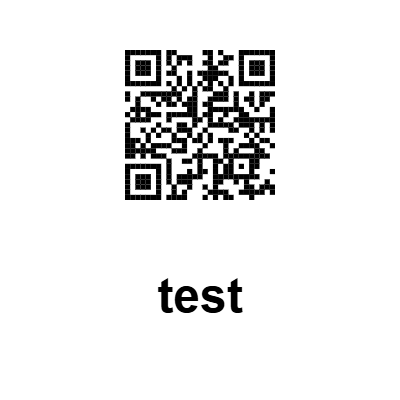
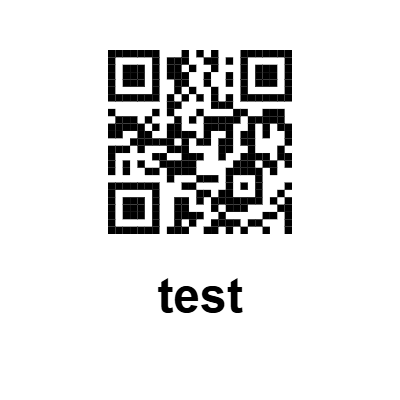
test

Changed region(s): [[0.27, 0.12, 0.75, 0.6]]

diff --git a/createtest.html b/createtest.html
@@ -102,8 +102,22 @@
         
         <div class="controls">
             <div class="control-group">
+                <label for="markerType">Marker Type:</label>
+                <select id="markerType" onchange="updateMarkerType()">
+                    <option value="qr">QR Code + Text</option>
+                    <option value="simple">Simple AR-Friendly Pattern</option>
+                </select>
+            </div>
+            
+            <div class="control-group" id="qrControls">
                 <label for="qrText">QR Code Content:</label>
                 <input type="text" id="qrText" placeholder="Enter URL or text for QR code" value="https://example.com">
+            </div>
+            
+            <div class="control-group" id="qrSizeControl">
+                <label for="qrSize">QR Code Size:</label>
+                <input type="range" id="qrSize" min="100" max="200" value="150">
+                <span id="qrSizeValue">150px</span>
             </div>
             
             <div class="control-group">
@@ -151,58 +165,105 @@
     <script>
         let currentMarkerData = null;
 
+        function updateMarkerType() {
+            const markerType = document.getElementById('markerType').value;
+            const qrControls = document.getElementById('qrControls');
+            const qrSizeControl = document.getElementById('qrSizeControl');
+            
+            if (markerType === 'qr') {
+                qrControls.style.display = 'block';
+                qrSizeControl.style.display = 'block';
+            } else {
+                qrControls.style.display = 'none';
+                qrSizeControl.style.display = 'none';
+            }
+        }
+
         function generateMarker() {
-            const qrText = document.getElementById('qrText').value;
+            const markerType = document.getElementById('markerType').value;
             const markerText = document.getElementById('markerText').value;
             const fontSize = document.getElementById('fontSize').value;
-            const qrSize = document.getElementById('qrSize').value;
             
             // Update font size display
             document.getElementById('fontSizeValue').textContent = fontSize + 'px';
-            document.getElementById('qrSizeValue').textContent = qrSize + 'px';
             
             // Update text display
             const textDisplay = document.getElementById('textDisplay');
             textDisplay.textContent = markerText;
             textDisplay.style.fontSize = fontSize + 'px';
             
-            // Generate QR code
             const qrCodeDiv = document.getElementById('qrCode');
             qrCodeDiv.innerHTML = '';
             
-            // Create QR code using qrcode-generator library
-            const qr = qrcode(0, 'M');
-            qr.addData(qrText);
-            qr.make();
-            
-            // Create canvas and draw QR code
-            const canvas = document.createElement('canvas');
-            const ctx = canvas.getContext('2d');
-            const size = parseInt(qrSize);
-            const moduleCount = qr.getModuleCount();
-            const cellSize = size / moduleCount;
-            
-            canvas.width = size;
-            canvas.height = size;
-            
-            // Fill white background
-            ctx.fillStyle = '#ffffff';
-            ctx.fillRect(0, 0, size, size);
-            
-            // Draw QR modules
-            ctx.fillStyle = '#000000';
-            for (let row = 0; row < moduleCount; row++) {
-                for (let col = 0; col < moduleCount; col++) {
-                    if (qr.isDark(row, col)) {
-                        ctx.fillRect(col * cellSize, row * cellSize, cellSize, cellSize);
+            if (markerType === 'qr') {
+                const qrText = document.getElementById('qrText').value;
+                const qrSize = document.getElementById('qrSize').value;
+                document.getElementById('qrSizeValue').textContent = qrSize + 'px';
+                
+                // Generate QR code
+                const qr = qrcode(0, 'M');
+                qr.addData(qrText);
+                qr.make();
+                
+                // Create canvas and draw QR code
+                const canvas = document.createElement('canvas');
+                const ctx = canvas.getContext('2d');
+                const size = parseInt(qrSize);
+                const moduleCount = qr.getModuleCount();
+                const cellSize = size / moduleCount;
+                
+                canvas.width = size;
+                canvas.height = size;
+                
+                // Fill white background
+                ctx.fillStyle = '#ffffff';
+                ctx.fillRect(0, 0, size, size);
+                
+                // Draw QR modules
+                ctx.fillStyle = '#000000';
+                for (let row = 0; row < moduleCount; row++) {
+                    for (let col = 0; col < moduleCount; col++) {
+                        if (qr.isDark(row, col)) {
+                            ctx.fillRect(col * cellSize, row * cellSize, cellSize, cellSize);
+                        }
                     }
                 }
+                
+                qrCodeDiv.appendChild(canvas);
+                generatePatternData(canvas, markerText, fontSize);
+            } else {
+                // Generate simple AR-friendly pattern
+                generateSimplePattern(markerText, fontSize);
             }
+        }
+
+        function generateSimplePattern(text, fontSize) {
+            // Create a simple, AR-friendly pattern
+            const canvas = document.createElement('canvas');
+            const ctx = canvas.getContext('2d');
+            canvas.width = 150;
+            canvas.height = 150;
             
-            qrCodeDiv.appendChild(canvas);
+            // White background
+            ctx.fillStyle = '#ffffff';
+            ctx.fillRect(0, 0, 150, 150);
             
-            // Generate pattern data
-            generatePatternData(canvas, markerText, fontSize);
+            // Black border
+            ctx.fillStyle = '#000000';
+            ctx.fillRect(0, 0, 150, 10);
+            ctx.fillRect(0, 140, 150, 10);
+            ctx.fillRect(0, 0, 10, 150);
+            ctx.fillRect(140, 0, 10, 150);
+            
+            // Simple geometric pattern
+            ctx.fillStyle = '#000000';
+            ctx.fillRect(30, 30, 90, 20);
+            ctx.fillRect(30, 60, 20, 60);
+            ctx.fillRect(100, 60, 20, 60);
+            ctx.fillRect(60, 100, 30, 20);
+            
+            document.getElementById('qrCode').appendChild(canvas);
+            generatePatternData(canvas, text, fontSize);
         }
 
         function generatePatternData(qrCanvas, text, fontSize) {
@@ -256,7 +317,7 @@
             
             const patterns = [];
             
-            // Generate 3 identical patterns (for different lighting conditions)
+            // Generate 3 patterns (for different lighting conditions)
             for (let p = 0; p < 3; p++) {
                 const pattern = [];
                 
@@ -267,31 +328,34 @@
                         const y = Math.floor(row * scaleY);
                         const index = (y * canvas.width + x) * 4;
                         
-                        // Convert to grayscale
-                        const r = data[index];
-                        const g = data[index + 1];
-                        const b = data[index + 2];
+                        // Convert to grayscale and ensure values are in correct range
+                        const r = data[index] || 255;
+                        const g = data[index + 1] || 255;
+                        const b = data[index + 2] || 255;
                         const gray = Math.round((r + g + b) / 3);
                         
-                        pattern.push(gray);
+                        // Clamp values between 0 and 255
+                        const clampedGray = Math.max(0, Math.min(255, gray));
+                        pattern.push(clampedGray);
                     }
                 }
                 patterns.push(pattern);
             }
             
-            // Convert to .patt format
+            // Convert to proper .patt format
             let pattContent = '';
             
+            // Each pattern should be on separate lines
             patterns.forEach((pattern, patternIndex) => {
-                for (let i = 0; i < pattern.length; i++) {
-                    if (i > 0 && i % 16 === 0) {
-                        pattContent += '\n';
+                for (let row = 0; row < patternSize; row++) {
+                    for (let col = 0; col < patternSize; col++) {
+                        const index = row * patternSize + col;
+                        if (col > 0) pattContent += ' ';
+                        pattContent += pattern[index].toString().padStart(3, ' ');
                     }
-                    pattContent += pattern[i].toString().padStart(3, ' ');
-                    if (i % 16 !== 15) {
-                        pattContent += ' ';
-                    }
+                    pattContent += '\n';
                 }
+                // Add blank line between patterns except after the last one
                 if (patternIndex < patterns.length - 1) {
                     pattContent += '\n';
                 }
